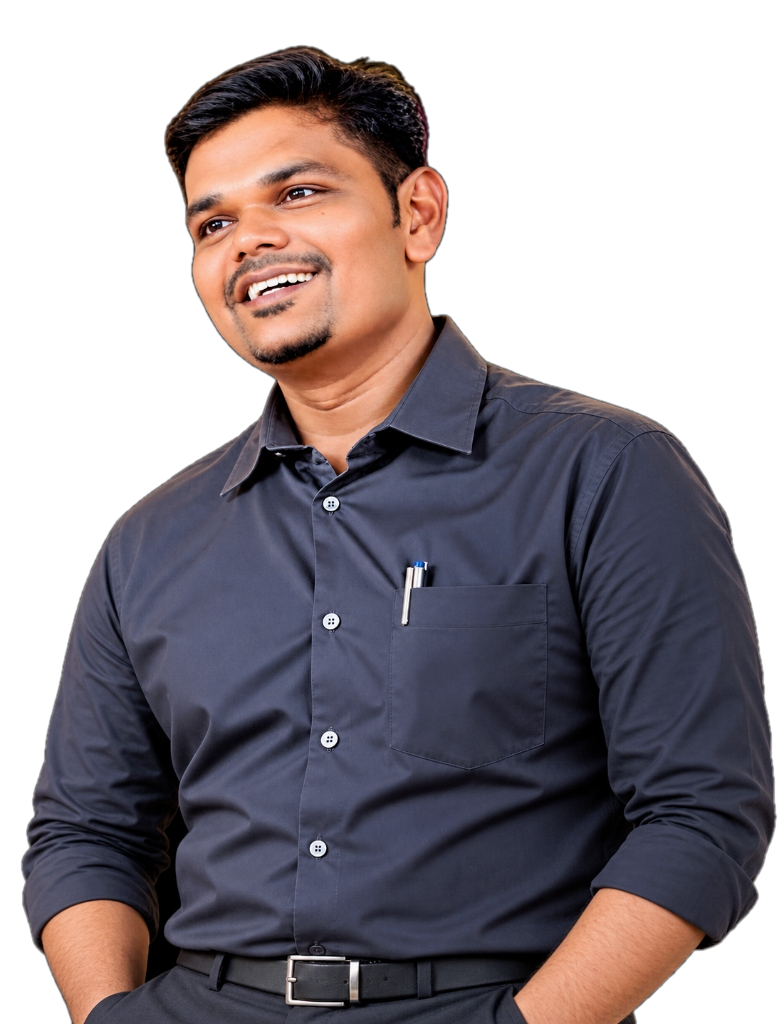
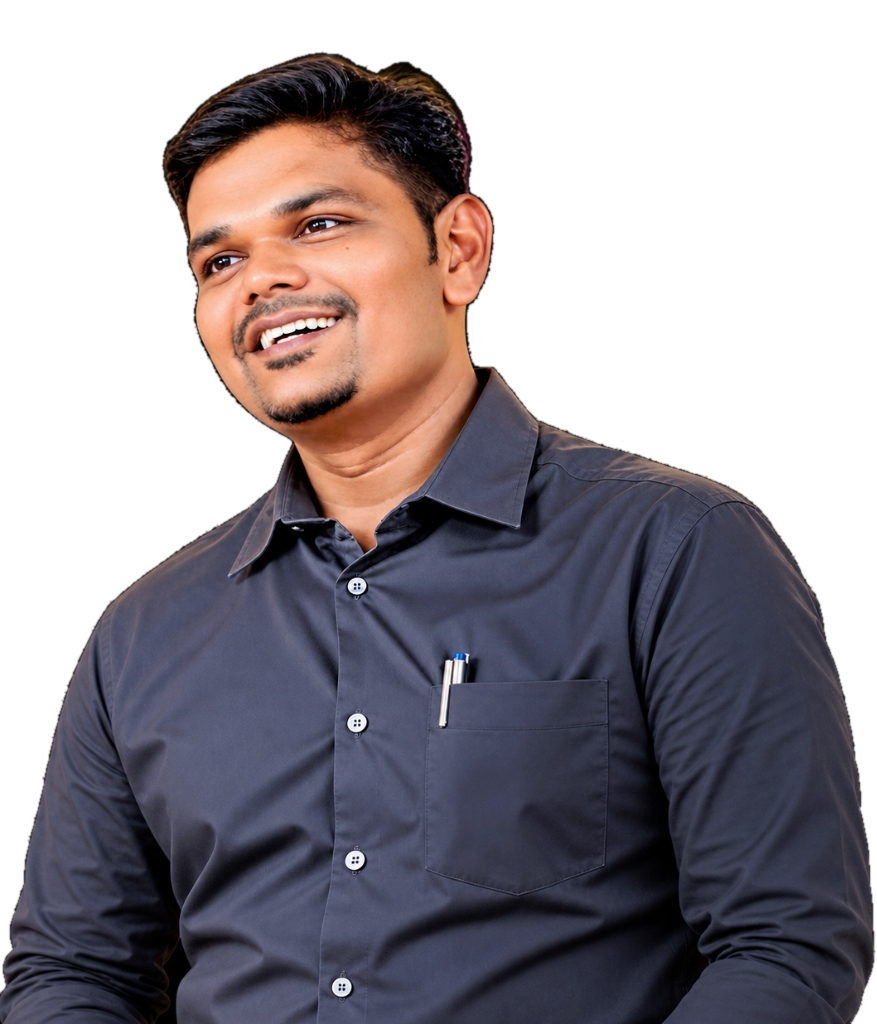
feat: remove quick catalog grid from mobile hero

diff --git a/src/components/Hero.tsx b/src/components/Hero.tsx
@@ -311,7 +311,7 @@ export const Hero: React.FC<HeroProps> = ({
                     height: 'clamp(320px, 48vw, 620px)',
                     maxHeight: 'min(58vh, 560px)',
                     maxWidth: '100%',
-                    aspectRatio: '778/1024',
+                    aspectRatio: '877/1024',
                     filter: isLight
                       ? 'drop-shadow(0 20px 40px rgba(0,0,0,0.15)) brightness(1.01)'
                       : 'drop-shadow(0 26px 52px rgba(0,0,0,0.9)) brightness(1.02)',

diff --git a/scripts/generate_og.py b/scripts/generate_og.py
@@ -64,7 +64,7 @@ html_content = f"""<!DOCTYPE html>
       left: 100px;
       width: 600px;
       height: 420px;
-      background: radial-gradient(circle, rgba(16, 185, 129, 0.16) 0%, transparent 70%);
+      background: radial-gradient(circle, rgba(255, 255, 255, 0.08) 0%, transparent 70%);
       filter: blur(85px);
       pointer-events: none;
     }}
@@ -139,22 +139,22 @@ html_content = f"""<!DOCTYPE html>
     .new-indicator {{
       display: inline-flex;
       align-items: center;
-      gap: 6px;
-      padding: 5px 12px;
+      gap: 7px;
+      padding: 5px 13px;
       border-radius: 999px;
-      background: rgba(16, 185, 129, 0.16);
-      border: 1px solid rgba(16, 185, 129, 0.40);
+      background: rgba(255, 255, 255, 0.08);
+      border: 1px solid rgba(255, 255, 255, 0.28);
       font-size: 11px;
       font-weight: 700;
-      color: #34D399;
+      color: #FFFFFF;
       letter-spacing: 0.06em;
     }}
     .pulse-dot {{
       width: 7px;
       height: 7px;
       border-radius: 50%;
-      background: #10B981;
-      box-shadow: 0 0 8px #10B981;
+      background: #FFFFFF;
+      box-shadow: 0 0 8px rgba(255, 255, 255, 0.85);
     }}
     .title-area {{
       margin-top: 14px;
@@ -203,9 +203,9 @@ html_content = f"""<!DOCTYPE html>
       color: #E2E5EC;
     }}
     .stat-badge-accent {{
-      background: rgba(16, 185, 129, 0.12);
-      border-color: rgba(16, 185, 129, 0.35);
-      color: #A7F3D0;
+      background: rgba(255, 255, 255, 0.12);
+      border-color: rgba(255, 255, 255, 0.32);
+      color: #FFFFFF;
     }}
     .products-showcase {{
       display: flex;
@@ -249,7 +249,7 @@ html_content = f"""<!DOCTYPE html>
       font-weight: 800;
       text-transform: uppercase;
       letter-spacing: 0.1em;
-      color: #34D399;
+      color: #CBD5E1;
     }}
     .prod-name {{
       font-size: 15px;
@@ -471,6 +471,11 @@ if os.path.exists(out_png_path):
         img = img.crop((0, 0, 1200, 630)) if img.size[0] >= 1200 and img.size[1] >= 630 else img.resize((1200, 630), Image.Resampling.LANCZOS)
         img.save(out_png_path, "PNG", optimize=True)
     print(f"Generated successfully: {out_png_path} ({img.size})")
+
+    out_jpg_path = os.path.abspath("public/og-thumbnail-v2.jpg")
+    rgb_img = img.convert("RGB")
+    rgb_img.save(out_jpg_path, "JPEG", quality=92, optimize=True, subsampling=0)
+    print(f"Generated successfully: {out_jpg_path} ({os.path.getsize(out_jpg_path) / 1024:.1f} KB)")
 
 if os.path.exists(temp_html_path):
     os.remove(temp_html_path)
